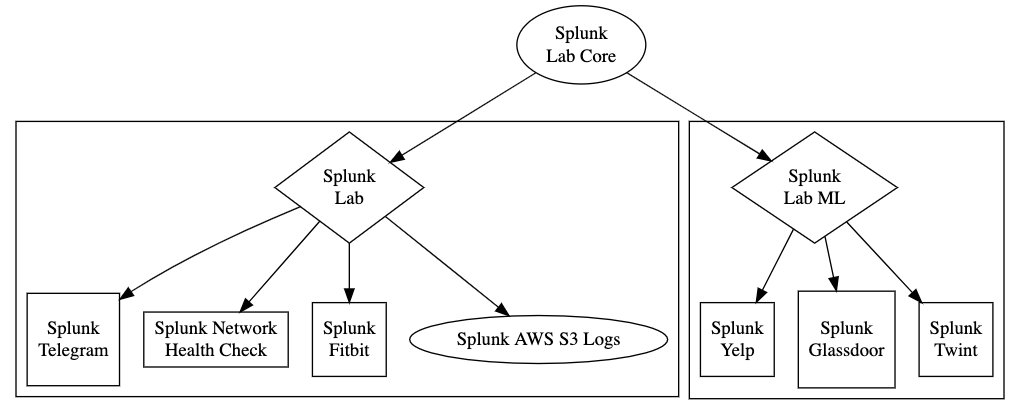
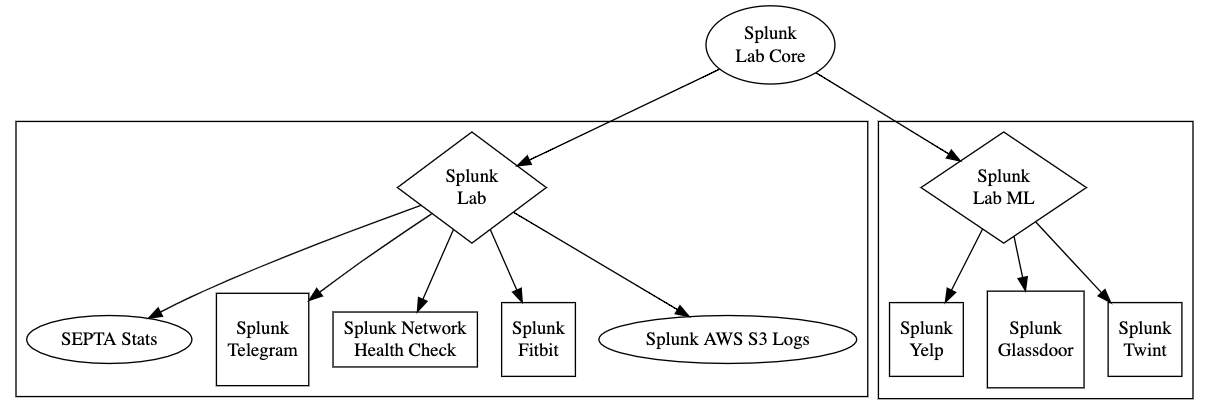
Added SEPTA Stats to the Splunk Lab family. :-)

diff --git a/README.md b/README.md
@@ -86,6 +86,9 @@ via one of the includes apps:
 
 Since building Splunk Lab, I have used it as the basis for building other projects:
 
+- <a href="https://github.com/dmuth/SeptaStats/tree/master">SEPTA Stats</a>
+   - Website with real-time stats on <a href="http://www.septa.org/service/rail/">Philadelphia Regional Rail</a>.
+   - Pulled down over 60 million traind data points over 4 years using Splunk.
 - <a href="https://github.com/twintproject/twint-splunk">Splunk Twint</a>
    - Splunk dashboards for Twitter timelines downloaded by Twint.  This now a part of the <a href="https://github.com/twintproject">TWINT Project</a>.
 - <a href="https://github.com/dmuth/splunk-yelp-reviews">Splunk Yelp Reviews</a>
